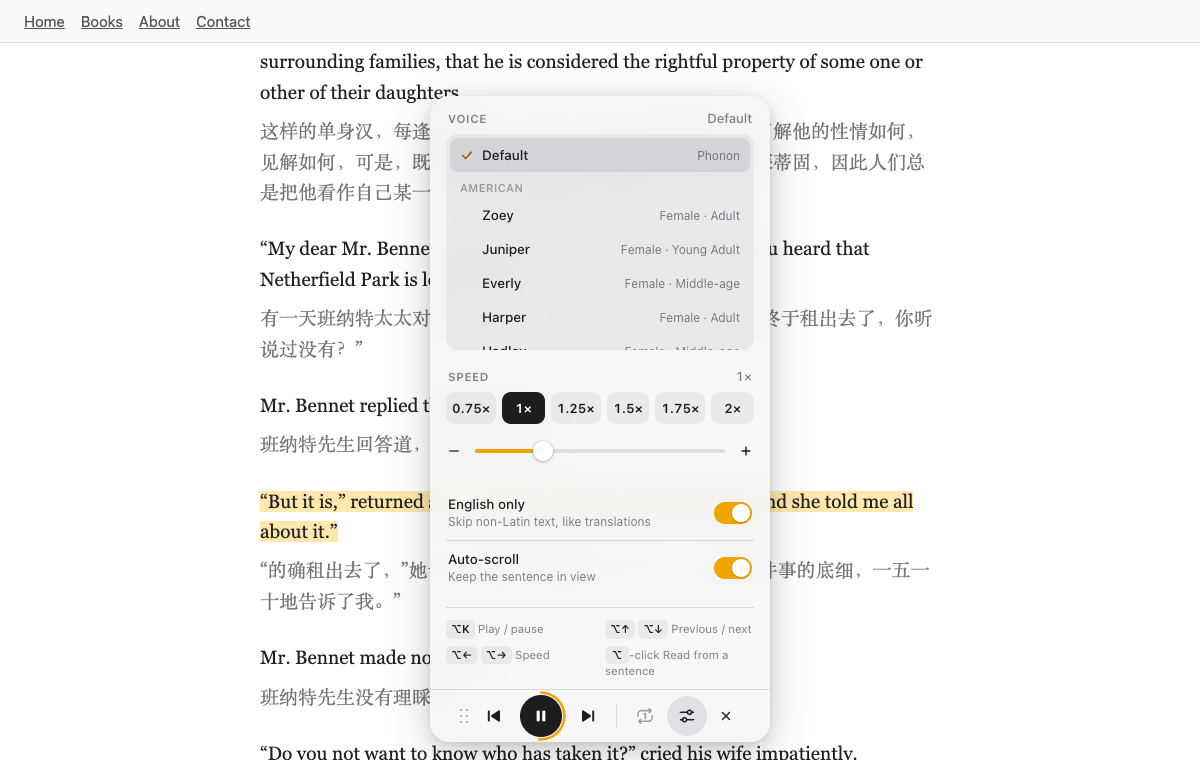
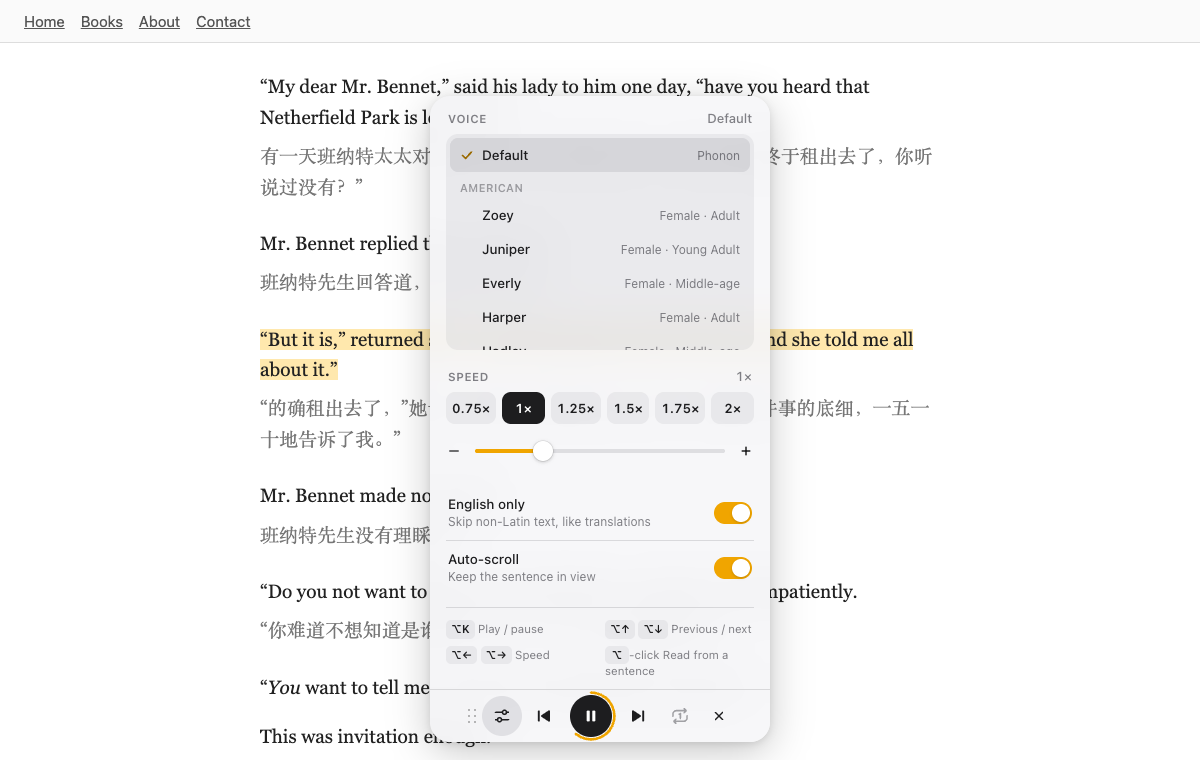
enhance: put settings left of previous on the desktop bar and drop the divider
The desktop bar now matches the iPhone order: grip, settings, previous, play, next, repeat-one, close. Screenshots updated.

diff --git a/src/player/player.html b/src/player/player.html
@@ -68,6 +68,7 @@
 
       <div id="controls" role="toolbar" aria-label="Lector">
         <span class="grip desktop-only" aria-hidden="true"></span>
+        <button type="button" class="icon" id="more" aria-label="Settings"></button>
         <button type="button" class="icon" id="prev" aria-label="Previous sentence"></button>
         <button type="button" class="play" id="play" aria-label="Play">
           <svg class="ring" viewBox="0 0 48 48" aria-hidden="true">
@@ -77,9 +78,7 @@
           <span class="glyph"></span>
         </button>
         <button type="button" class="icon" id="next" aria-label="Next sentence"></button>
-        <span class="sep desktop-only" aria-hidden="true"></span>
         <button type="button" class="icon" id="step" aria-label="Pause after each sentence" aria-pressed="false"></button>
-        <button type="button" class="icon" id="more" aria-label="Settings"></button>
         <button type="button" class="icon small desktop-only" id="close" aria-label="Close"></button>
       </div>
     </div>

diff --git a/src/player/player.ts b/src/player/player.ts
@@ -32,8 +32,6 @@ const moreBtn = $<HTMLButtonElement>('more');
 const closeBtn = $<HTMLButtonElement>('close');
 const stepBtn = $<HTMLButtonElement>('step');
 const glyph = playBtn.querySelector('.glyph') as HTMLElement;
-// on touch the bar is settings · previous · play · next · repeat; on desktop settings sits at the end
-if (platform === 'touch') controls.insertBefore(moreBtn, prevBtn);
 
 const SPEED_PRESETS = [0.75, 1, 1.25, 1.5, 1.75, 2];
 const MOD = '⌥';

diff --git a/src/player/player.css b/src/player/player.css
@@ -289,13 +289,6 @@ body.touch #next {
   background-position: 0 2px;
 }
 
-.sep {
-  width: 1px;
-  height: 22px;
-  margin: 0 6px;
-  background: var(--sep);
-}
-
 body.dragging,
 body.dragging * {
   cursor: grabbing !important;
